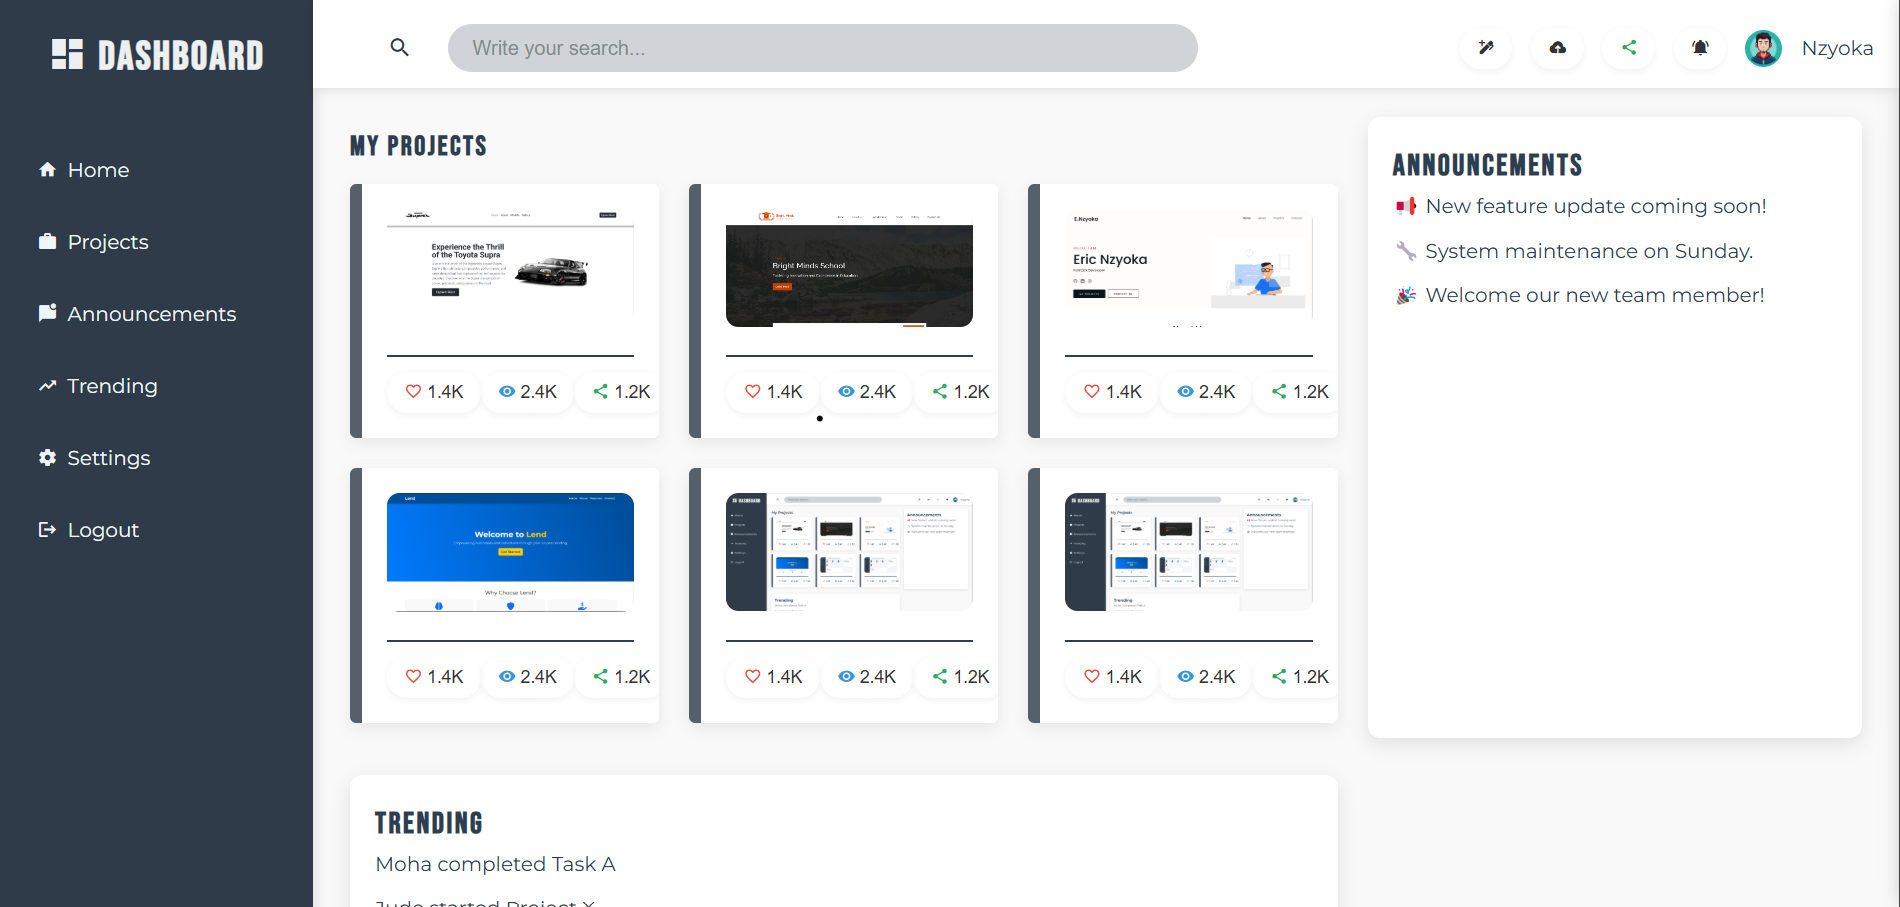
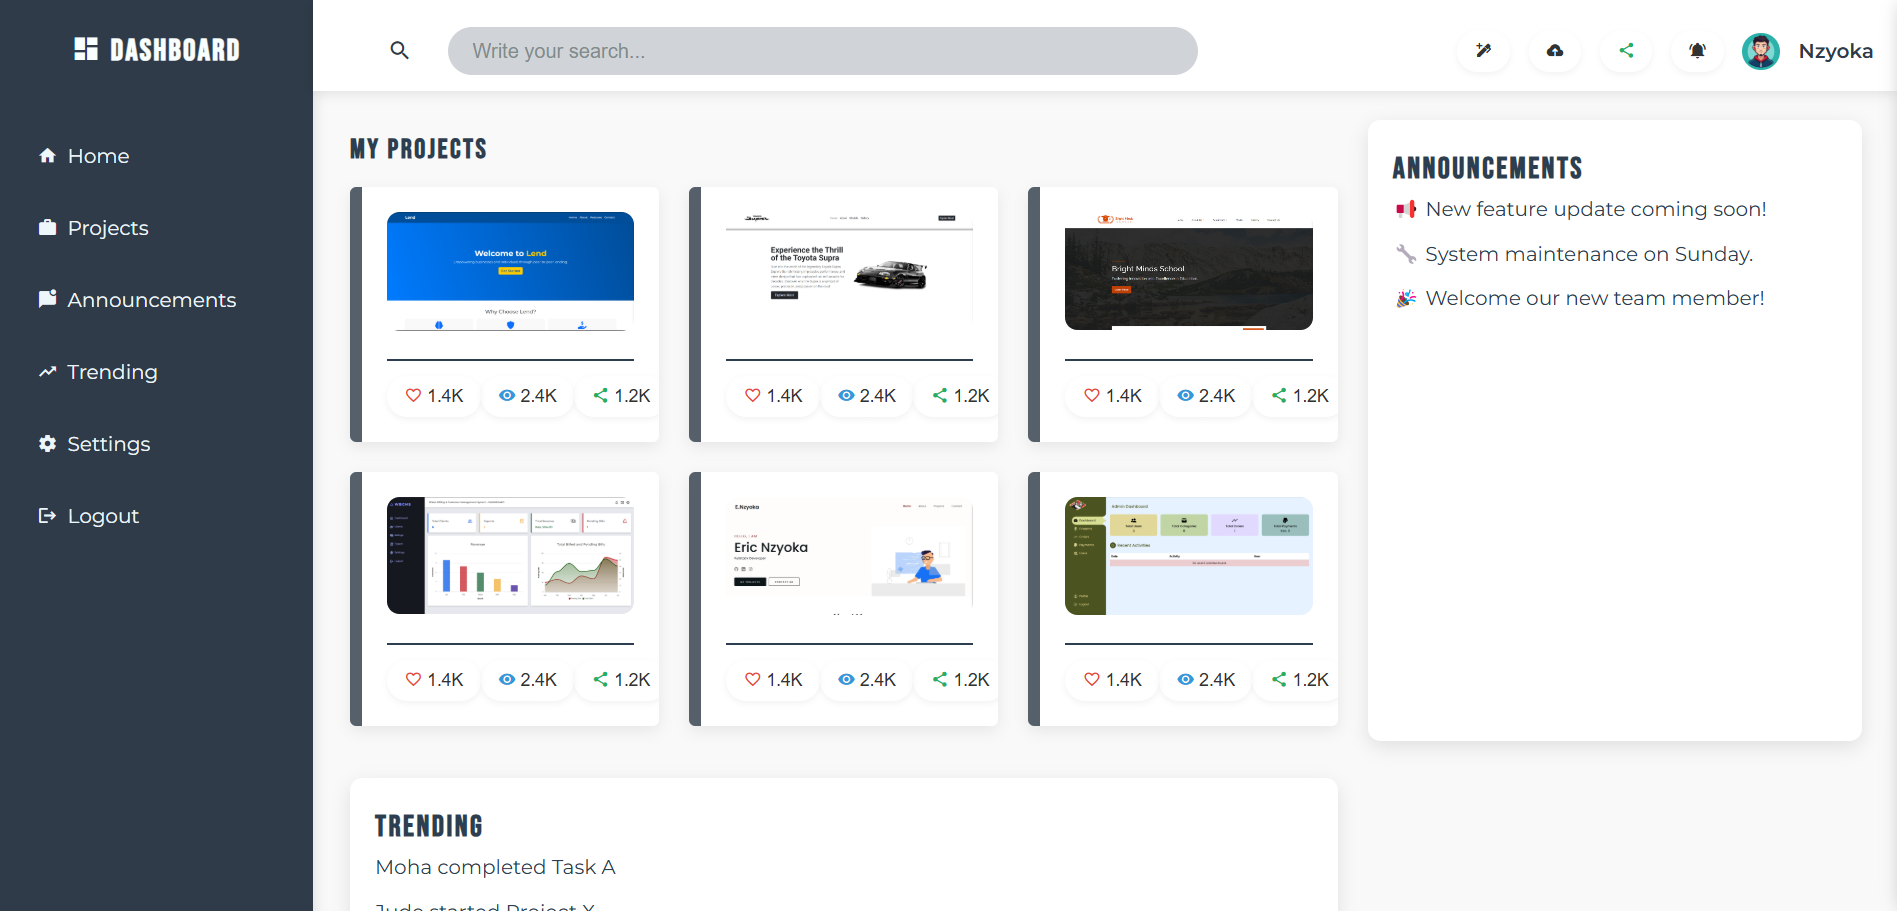
Updated dashboard layout, added accessibility features, and optimized project card rendering with dynamic JavaScript.

diff --git a/index.html b/index.html
@@ -3,6 +3,9 @@
   <head>
     <meta charset="UTF-8" />
     <meta name="viewport" content="width=device-width, initial-scale=1.0" />
+    <meta name="description" content="Admin Dashboard - Manage your projects and announcements." />
+    <meta name="keywords" content="admin, dashboard, projects, announcements, trending" />
+    <meta name="author" content="Eric Nzyoka" />
     <title>Admin Dashboard</title>
     
     <!-- Fonts -->
@@ -25,12 +28,12 @@
         </div>
         <nav class="nav">
           <ul>
-            <li><a href="./index.html"><span class="mdi mdi-home"></span> Home</a></li>
-            <li><a href="#projects"><span class="mdi mdi-briefcase"></span> Projects</a></li>
-            <li><a href="#announcements"><span class="mdi mdi-message-badge"></span> Announcements</a></li>
-            <li><a href="#trending"><span class="mdi mdi-trending-up"></span> Trending</a></li>
-            <li><a href="#settings"><span class="mdi mdi-cog"></span> Settings</a></li>
-            <li><a href="#logout"><span class="mdi mdi-logout"></span> Logout</a></li>
+            <li><a href="./index.html"><span class="mdi mdi-home" aria-label="Home"></span> Home</a></li>
+            <li><a href="#projects"><span class="mdi mdi-briefcase" aria-label="Projects"></span> Projects</a></li>
+            <li><a href="#announcements"><span class="mdi mdi-message-badge" aria-label="Announcements"></span> Announcements</a></li>
+            <li><a href="#trending"><span class="mdi mdi-trending-up" aria-label="Trending"></span> Trending</a></li>
+            <li><a href="#settings"><span class="mdi mdi-cog" aria-label="Settings"></span> Settings</a></li>
+            <li><a href="#logout"><span class="mdi mdi-logout" aria-label="Logout"></span> Logout</a></li>
           </ul>
         </nav>
       </aside>
@@ -39,17 +42,16 @@
       <header class="header">
         <div class="top-header">
           <div class="search-bar">
-            <span class="mdi mdi-magnify"></span>
-            <input type="text" placeholder="Write your search..." />
+            <span class="mdi mdi-magnify" aria-hidden="true"></span>
+            <input type="text" placeholder="Write your search..." aria-label="Search" />
           </div>
           <div class="user-info">
-            <button class="btn btn-sm icon-btn"><span class="mdi mdi-pen-plus"></span></button>
-            <button class="btn btn-sm icon-btn"><span class="mdi mdi-cloud-upload"></span></button>
-            <button class="btn btn-sm icon-btn"><span class="mdi mdi-share-variant"></span></button>
-            <button class="btn btn-sm icon-btn"><span class="mdi mdi-bell-ring"></span></button>
-            <!-- <button class="btn btn-sm icon-btn"><span class="mdi mdi-cog"></span></button> -->
-            <img src="img/avatar.avif" alt="User Avatar" />
-            <span>Nzyoka</span>
+            <button class="btn btn-sm icon-btn" aria-label="Add Post"><span class="mdi mdi-pen-plus"></span></button>
+            <button class="btn btn-sm icon-btn" aria-label="Upload"><span class="mdi mdi-cloud-upload"></span></button>
+            <button class="btn btn-sm icon-btn" aria-label="Share"><span class="mdi mdi-share-variant"></span></button>
+            <button class="btn btn-sm icon-btn" aria-label="Notifications"><span class="mdi mdi-bell-ring"></span></button>
+            <img src="img/avatar.avif" alt="User Avatar" aria-label="User Avatar" />
+            <span class="uname">Nzyoka</span>
           </div>
         </div>
       </header>
@@ -59,37 +61,8 @@
         <!-- Projects Section -->
         <section class="projects">
           <h3>My Projects</h3>
-          <div class="project-grid">
-            <!-- Project Cards -->
-            <script>
-              const projects = [
-                { name: "Car Website", img: "img/Car.png" },
-                { name: "School Website", img: "img/School.png" },
-                { name: "Portfolio Website", img: "img/Portfolio.png" },
-                { name: "Lend Website", img: "img/Lend.png" },
-                { name: "Project 5", img: "img/dash.png" },
-                { name: "Project 6", img: "img/dash.png" }
-              ];
-              
-              document.write(projects.map(p => `
-                <div class="project-card">
-                  <div class="project-image">
-                    <img src="${p.img}" alt="${p.name}">
-                  </div>
-                  <div class="project-info">
-                    <h3>${p.name}</h3>
-                    <!-- <p>
-                        Lorem ipsum dolor sit amet, consectetur adipiscing elit. Sed ut purus eget sapien.
-                    </p> -->
-                  </div>
-                  <div class="project-actions">
-                    <button class="btn btn-sm icon-btn"><span class="mdi mdi-heart-outline"></span> <span class="likes">1.4K</span></button>
-                    <button class="btn btn-sm icon-btn"><span class="mdi mdi-eye"></span> <span class="views">2.4K</span></button>
-                    <button class="btn btn-sm icon-btn"><span class="mdi mdi-share-variant"></span> <span class="shares">1.2K</span></button>
-                  </div>
-                </div>
-              `).join(''));
-            </script>
+          <div class="project-grid" id="projects-grid">
+            <!-- Project Cards will be injected here via JavaScript -->
           </div>
         </section>
 
@@ -114,5 +87,39 @@
         </section>
       </main>
     </div>
+
+    <script>
+      // Dynamically generate project cards
+      const projects = [
+        { name: "P2P Lending", img: "img/Lend.png" },
+        { name: "Car Website", img: "img/Car.png" },
+        { name: "School Website", img: "img/School.png" },
+        { name: "Water Billing", img: "img/Billing.png" },
+        { name: "Portfolio Website", img: "img/Portfolio.png" },
+        { name: "E-Commerce Dashboard", img: "img/Store.png" }
+      ];
+
+      const projectsGrid = document.getElementById('projects-grid');
+      projects.forEach(project => {
+        const projectCard = document.createElement('div');
+        projectCard.classList.add('project-card');
+        
+        projectCard.innerHTML = `
+          <div class="project-image">
+            <img src="${project.img}" alt="${project.name}" />
+          </div>
+          <div class="project-info">
+            <h3>${project.name}</h3>
+          </div>
+          <div class="project-actions">
+            <button class="btn btn-sm icon-btn" aria-label="Like"><span class="mdi mdi-heart-outline"></span> <span class="likes">1.4K</span></button>
+            <button class="btn btn-sm icon-btn" aria-label="View"><span class="mdi mdi-eye"></span> <span class="views">2.4K</span></button>
+            <button class="btn btn-sm icon-btn" aria-label="Share"><span class="mdi mdi-share-variant"></span> <span class="shares">1.2K</span></button>
+          </div>
+        `;
+        
+        projectsGrid.appendChild(projectCard);
+      });
+    </script>
   </body>
 </html>

diff --git a/css/styles.css b/css/styles.css
@@ -49,10 +49,8 @@ h1, h2, h3, h4, h5, h6 {
 }
 
 .branding h2 {
-    font-family: "Bebas Neue", serif;
-    font-size: 2rem;
-    color: #ecf0f1;
-    letter-spacing: 2px;
+    color: #f9feff;
+    font-size: 24px;
 }
 
 .nav ul {
@@ -141,11 +139,17 @@ h1, h2, h3, h4, h5, h6 {
     display: flex;
     align-items: center;
     gap: 15px;
+    cursor: pointer;
 }
 
 .user-info img {
     border-radius: 50%;
     width: 30px;
+}
+
+.user-info span.uname {
+    font-weight: 600;
+    color: #2f3b48;
 }
 
 .icon-btn {
@@ -221,13 +225,13 @@ h1, h2, h3, h4, h5, h6 {
     left: 50%;
     transform: translate(-50%, -50%);
     color: #fff;
-    background: rgba(47, 59, 72, 0.75);
+    background: rgba(47, 59, 72, 0.659);
     padding: 20px;
     text-align: center;
-    width: 90%;
+    width: 100%;
     opacity: 0;
     visibility: hidden;
-    border-radius: 8px;
+    border-radius: 4px;
     transition: opacity 0.3s ease-in-out, transform 0.3s ease-in-out;
 }
 
@@ -256,8 +260,14 @@ h1, h2, h3, h4, h5, h6 {
 .project-image img {
     width: 100%;
     height: auto;
-    border-radius: 10px;
+    border-radius: 0px;
+    object-fit: cover;
+
+    /* Stylish Overlay */
+    position: relative;
+    overflow: hidden;
     transition: opacity 0.3s ease-in-out;
+    
 }
 
 /* Project Text */
